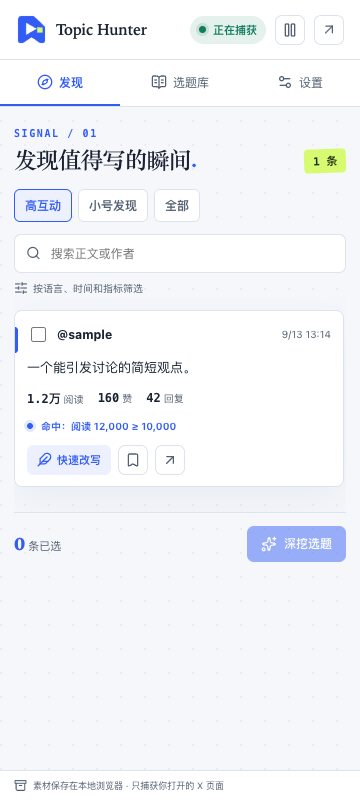
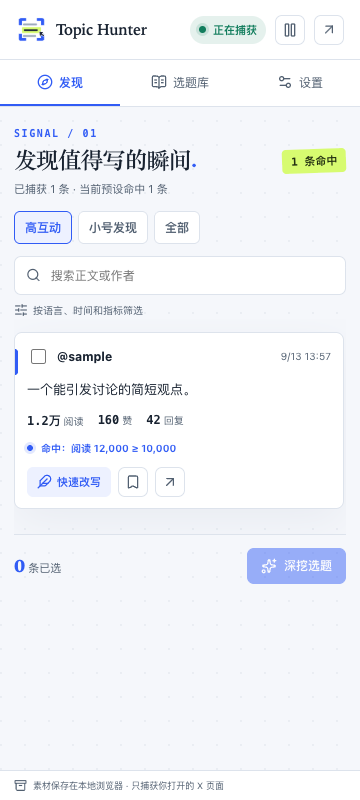
Fix X DOM fallback capture and discovery visibility

diff --git a/tests/e2e/extension.spec.ts b/tests/e2e/extension.spec.ts
@@ -33,6 +33,7 @@ test('built extension supports local quick draft and topic paths at 360px', asyn
       await chrome.runtime.sendMessage({ type: 'importBackup', data: { posts: [item], observations: [{ id: 'obs-1', postId: item.id, observedAt: item.lastSeenAt, source: 'graphql', metrics: item.latestMetrics }], quickDrafts: [], topicCards: [] } });
     }, post);
     await expect(page.getByText('一个能引发讨论的简短观点。')).toBeVisible();
+    expect(await page.evaluate(() => document.documentElement.scrollWidth <= window.innerWidth)).toBe(true);
     await page.screenshot({ path: 'output/playwright/sidepanel-discover.png', fullPage: true });
     await page.getByRole('button', { name: '快速改写' }).click();
     await expect(page.getByText('让好素材，变成你的表达.')).toBeVisible();
@@ -64,7 +65,7 @@ test('built extension supports local quick draft and topic paths at 360px', asyn
     const xPage = await context.newPage();
     let graphqlRequests = 0;
     let graphqlText = '页面响应中的完整帖子';
-    await xPage.route('https://x.com/test', route => route.fulfill({ contentType: 'text/html', body: '<html><body><article data-testid="tweet"><a href="/sample/status/323456789012345678"><time datetime="2026-09-13T08:00:00Z">今天</time></a><div data-testid="tweetText">页面可见的帖子</div><div role="group"></div></article></body></html>' }));
+    await xPage.route('https://x.com/test', route => route.fulfill({ contentType: 'text/html; charset=utf-8', body: `<html><body><article data-testid="tweet"><a href="/sample/status/323456789012345678"><time datetime="${new Date().toISOString()}">今天</time></a><div data-testid="tweetText">页面可见的帖子</div><div role="group"><button data-testid="reply" aria-label="42 Replies. Reply">42</button><button data-testid="retweet" aria-label="4 reposts. Repost">4</button><button data-testid="like" aria-label="160 Likes. Like">160</button><a href="/sample/status/323456789012345678/analytics" aria-label="12000 views. View post analytics">12K</a><button data-testid="bookmark" aria-label="Bookmark">2</button></div></article></body></html>` }));
     await xPage.route('https://x.com/i/api/graphql/**', route => {
       graphqlRequests += 1;
       return route.fulfill({ contentType: 'application/json', body: JSON.stringify({ data: { tweet: {
@@ -76,6 +77,15 @@ test('built extension supports local quick draft and topic paths at 360px', asyn
     });
     await xPage.goto('https://x.com/test');
     await expect(xPage.locator('[data-topic-hunter-badge]')).toBeVisible();
+    await expect.poll(async () => {
+      const snapshot = await workspace.evaluate(async () => chrome.runtime.sendMessage({ type: 'snapshot' }));
+      return snapshot.data.posts.find((item: { id: string }) => item.id === '323456789012345678');
+    }).toMatchObject({
+      isComplete: true,
+      latestMetricSource: 'dom',
+      latestMetrics: { views: 12000, likes: 160, replies: 42, reposts: 4, bookmarks: 2, followers: null },
+    });
+    await expect(workspace.getByRole('region', { name: '素材列表' }).getByText('页面可见的帖子')).toBeVisible();
     await xPage.evaluate(() => fetch('/i/api/graphql/abc/TweetDetail').then(response => response.json()));
     await expect(workspace.getByRole('region', { name: '素材列表' }).getByText('页面响应中的完整帖子')).toBeVisible();
     expect(graphqlRequests).toBe(1);
@@ -114,6 +124,18 @@ test('built extension supports local quick draft and topic paths at 360px', asyn
     expect(afterSecondTab.data.observations.filter((item: { postId: string }) => item.postId === '323456789012345678').length).toBeGreaterThanOrEqual(2);
     expect(secondTabRequests).toBe(1);
 
+    const truncatedTab = await context.newPage();
+    await truncatedTab.route('https://x.com/test', route => route.fulfill({
+      contentType: 'text/html; charset=utf-8',
+      body: `<html><body><article data-testid="tweet"><a href="/sample/status/423456789012345678"><time datetime="${new Date().toISOString()}">今天</time></a><div data-testid="tweetText">可见但截断的长帖开头</div><button>Show more</button><div role="group"><button data-testid="like" aria-label="160 Likes. Like">160</button><a href="/sample/status/423456789012345678/analytics" aria-label="12000 views. View post analytics">12K</a></div></article></body></html>`,
+    }));
+    await truncatedTab.goto('https://x.com/test');
+    await expect.poll(async () => {
+      const snapshot = await workspace.evaluate(async () => chrome.runtime.sendMessage({ type: 'snapshot' }));
+      return snapshot.data.posts.find((item: { id: string }) => item.id === '423456789012345678');
+    }).toMatchObject({ isComplete: false, latestMetrics: { views: 12000, likes: 160, followers: null } });
+    await expect(workspace.getByRole('region', { name: '素材列表' }).getByText('可见但截断的长帖开头')).toHaveCount(0);
+
     await workspace.evaluate(async () => {
       const timestamp = new Date().toISOString();
       const posts = Array.from({ length: 1_000 }, (_, index) => {
@@ -127,7 +149,8 @@ test('built extension supports local quick draft and topic paths at 360px', asyn
       });
       await chrome.runtime.sendMessage({ type: 'importBackup', data: { posts, observations: [], quickDrafts: [], topicCards: [] } });
     });
-    await expect(workspace.getByText('1002 条')).toBeVisible();
+    await expect(workspace.getByText('1002 条命中', { exact: true })).toBeVisible();
+    await expect(workspace.getByText('已捕获 1003 条 · 当前预设命中 1002 条', { exact: true })).toBeVisible();
     expect(await workspace.locator('article').count()).toBeLessThan(30);
   } finally {
     await context.close();

diff --git a/src/ui/Discover.tsx b/src/ui/Discover.tsx
@@ -96,8 +96,9 @@ export function Discover({ snapshot, compact, selected, onSelected, onQuick, onD
     <section className={styles.discoverList} aria-label="素材列表">
       <div className={styles.sectionLead}>
         <div><span className={styles.eyebrow}>SIGNAL / 01</span><h2>发现值得写的瞬间<span className={styles.titlePoint}>.</span></h2></div>
-        <span className={styles.countPill}>{filtered.length} 条</span>
+        <span className={styles.countPill}>{filtered.length} 条命中</span>
       </div>
+      <p className={styles.captureSummary}>已捕获 {snapshot.posts.length} 条 · 当前预设命中 {filtered.length} 条</p>
       <fieldset className={styles.filterBar}><legend className={styles.srOnly}>筛选预设</legend>
         <button type="button" className={preset === 'high-interaction' ? styles.filterActive : styles.filterButton} onClick={() => changeFilter(() => setPreset('high-interaction'))}>高互动</button>
         <button type="button" className={preset === 'small-account' ? styles.filterActive : styles.filterButton} onClick={() => changeFilter(() => setPreset('small-account'))}>小号发现</button>
@@ -115,7 +116,8 @@ export function Discover({ snapshot, compact, selected, onSelected, onQuick, onD
         {filtered.length === 0 ? <div className={styles.emptyState}>
           <div className={styles.emptySymbol}>✳</div>
           <h3>{snapshot.posts.length === 0 ? '还没有捕获素材' : '当前筛选没有命中'}</h3>
-          <p>{snapshot.posts.length === 0 ? '打开 X 浏览首页、搜索、列表、主页或帖子详情。插件只观察已加载的内容。' : '试试“全部”或调整设置中的阈值。'}</p>
+          <p>{snapshot.posts.length === 0 ? '打开或刷新 X 页面后浏览首页、搜索、列表、主页或帖子详情。插件只观察已加载的内容。' : `已捕获 ${snapshot.posts.length} 条；当前预设没有命中。可查看全部，或调整设置中的阈值。`}</p>
+          {snapshot.posts.length > 0 && <button type="button" className={styles.outlineButton} onClick={() => changeFilter(() => setPreset('all'))}>查看全部 {snapshot.posts.length} 条素材</button>}
         </div> : <div className={styles.virtualCanvas} style={{ height: virtualizer.getTotalSize() }}>
           {virtualizer.getVirtualItems().map(row => {
             const post = filtered[row.index];

diff --git a/entrypoints/x.content.ts b/entrypoints/x.content.ts
@@ -25,6 +25,17 @@ function statusId(article: Element): string | null {
 function domFallback(article: Element, id: string): CapturedPost | null {
   const text = article.querySelector('[data-testid="tweetText"]')?.textContent?.trim();
   if (!text) return null;
+  const visibleCount = (selector: string): number | null => {
+    const element = article.querySelector(selector);
+    const label = element?.getAttribute('aria-label')?.match(/^\s*(\d[\d,]*)(?=\s|$)/)?.[1];
+    const raw = label ?? element?.textContent?.trim();
+    if (!raw || !/^\d[\d,]*$/.test(raw)) return null;
+    const value = Number(raw.replaceAll(',', ''));
+    return Number.isSafeInteger(value) ? value : null;
+  };
+  const truncated = [...article.querySelectorAll('button,[role="button"],a')].some(element =>
+    /^(show more|显示更多|展开)$/i.test(element.textContent?.trim() ?? ''),
+  ) || /(?:…|\.\.\.)$/.test(text);
   const link = article.querySelector<HTMLAnchorElement>(`a[href*="/status/${id}"]`);
   const segment = link?.getAttribute('href')?.split('/')[1] ?? null;
   const handle = segment === 'i' ? null : segment;
@@ -32,8 +43,15 @@ function domFallback(article: Element, id: string): CapturedPost | null {
   return {
     id, url: `https://x.com/${handle ?? 'i/web'}/status/${id}`, text,
     authorId: null, authorHandle: handle, publishedAt: time,
-    isComplete: false, quotedPostId: null, language: null,
-    metrics: { ...EMPTY_METRICS }, source: 'dom',
+    isComplete: !truncated, quotedPostId: null, language: null,
+    metrics: {
+      ...EMPTY_METRICS,
+      views: visibleCount('a[href*="/analytics"]'),
+      likes: visibleCount('[data-testid="like"],[data-testid="unlike"]'),
+      replies: visibleCount('[data-testid="reply"]'),
+      reposts: visibleCount('[data-testid="retweet"]'),
+      bookmarks: visibleCount('[data-testid="bookmark"],[data-testid="removeBookmark"]'),
+    }, source: 'dom',
   };
 }
 

diff --git a/src/ui/ui.module.css b/src/ui/ui.module.css
@@ -79,6 +79,7 @@
 .sectionLead h2, .editorIntro h2 { margin: 5px 0 0; font: 700 clamp(22px, 2.15vw, 30px)/1.17 "Iowan Old Style", "Songti SC", serif; letter-spacing: -.04em; }
 .titlePoint { color: var(--accent); }
 .countPill { flex: none; padding: 4px 9px; background: var(--signal); color: #233011; border-radius: 4px; font: 700 11px ui-monospace, monospace; transform: rotate(-2deg); }
+.captureSummary { margin: -8px 0 14px; color: var(--text-muted); font-size: 11px; }
 .filterBar { display: flex; flex-wrap: wrap; gap: 6px; margin: 0 0 12px; padding: 0; border: 0; }
 .srOnly { position: absolute; width: 1px; height: 1px; padding: 0; margin: -1px; overflow: hidden; clip: rect(0, 0, 0, 0); white-space: nowrap; border: 0; }
 .filterButton, .filterActive { border: 1px solid var(--border); border-radius: 6px; padding: 7px 10px; background: var(--surface-panel); color: var(--text-muted); font-size: 12px; font-weight: 600; }

diff --git a/doc/log/2026-09-13.md b/doc/log/2026-09-13.md
@@ -1,5 +1,13 @@
 # 2026-09-13 执行日志
 
+## M1-05：真实 X 页面发现页零命中修复
+
+- 用户在已安装插件的 X 首页反馈“发现”页无内容。只读检查当前页面：6 个帖子卡片均有 Topic Hunter 的“素材”标记，说明内容脚本已注入；真实 DOM 的阅读、点赞、回复等数据分别位于分析链接与操作按钮的 `aria-label`。可见普通帖的指标也可能低于默认高互动阈值。
+- 定位：响应观察未覆盖的帖子由 DOM 兜底保存，但原实现强制 `isComplete=false` 且所有指标为 `null`，所以高互动预设无法命中。修复为读取可见整数指标，遇到“Show more”等截断提示仍保持不完整；未知值保持 `null`。发现页同时显示总捕获数、当前命中数，并在零命中时提供“查看全部”。
+- `pnpm test:e2e` → Chromium 扩展模拟流程 1 项通过：复刻真实 X DOM 形态验证 12,000 阅读、160 赞、42 回复、4 转发、2 收藏入库并出现在发现页；截断帖不误判短内容；原有 GraphQL、暂停恢复、跨标签去重与虚拟列表仍通过。测试样本是脱敏构造页面，不能替代真实 X 五类页面验收。测试夹具初次因未来时间、未声明 UTF-8 与文字选择器歧义分别失败，修正夹具后重跑通过，未发现对应产品故障。最终复测在沙箱内启动 Chromium 报 `browserType.launchPersistentContext: Target page, context or browser has been closed`，子进程 `SIGABRT`；推断为沙箱启动限制。在本机进程权限下重跑同一命令 → 1 项通过。
+- `pnpm typecheck`、`pnpm lint`、`python3 scripts/check_docs.py` → 通过。360px 实际扩展截图 `output/playwright/sidepanel-discover.png` 人工查看无截断或横向溢出。用户须刷新 Chrome 插件和 X 页面后核对真实侧栏；浏览器 UI 策略禁止自动打开当前用户已安装插件的扩展页，本轮未读其真实侧栏数据。
+
+
 ## 公开源码仓库与品牌更换
 
 - 用户确认“选中短句”Logo 方向：四角捕获框、三行信息流、青柠高亮和指针。原始概念图由内置 imagegen 生成并保存在 [brand/logo-generated.png](../../brand/logo-generated.png)；生产 SVG 与 16/32/48/128px PNG 按生成稿描摹和渲染，横向字标与 GitHub 社交预览同源。此前“折角书签”和“引号望远镜”方案被用户否决，未进入发布资产。

diff --git a/specs/2026-09-13-topic-hunter-v1.md b/specs/2026-09-13-topic-hunter-v1.md
@@ -27,6 +27,7 @@
 | CAP-02 | 每帖一个 `Post`，跨标签重复遇到时更新当前指标并保留观测历史；引用帖的文本与原帖正文分开。用脱敏样本覆盖普通、引用、截断、缺失与回落。 |
 | CAP-03 | 每个指标可显示观测时间和数据来源；缺失显示“未知”。首次观测只能显示平均热度，两次有效观测才能显示带区间的新增阅读／小时。 |
 | CAP-04 | 暂停后不再新增自动采集；恢复、切页、刷新和 Worker 重启后配置与已保存内容仍在。采集异常有可见提示与恢复动作。 |
+| CAP-05 | 已打开的 X 页面若帖子响应未被观察到，仍从原帖可见 DOM 保存正文、原帖链接、发布时间与可读到的互动原始整数；仅在没有“显示更多”等截断提示时将正文视为完整。未知指标保持 `null`，不能伪造粉丝数。发现页同时显示已捕获总数与当前预设命中数，零命中时可一键查看全部。用真实 X DOM 结构的脱敏样本及浏览器扩展流程验证。 |
 | FIL-01 | “短内容高互动”初值：完整正文 ≤280 可见字符、近 7 天，且阅读 ≥10,000／点赞 ≥100／回复 ≥20 任一满足；“小号发现”初值：同长度/时间，已知粉丝数 ≤10,000，且点赞 ≥30 或回复 ≥10。未知粉丝数不能命中小号预设。 |
 | FIL-02 | 阈值可调整和恢复默认；“全部素材”不限热度。未命中的帖子也可手动保存；候选理由列出触发的具体字段和数值，不给不透明爆款分。 |
 | FIL-03 | 未收藏、无选题或快速稿引用的自动候选在最后一次命中 30 天后可清理；收藏与被创作产物引用的素材保留。清理与删除在 UI 中可区分。 |

diff --git a/doc/plan/2026-09-13-m0-m4-roadmap.md b/doc/plan/2026-09-13-m0-m4-roadmap.md
@@ -27,6 +27,7 @@
 | M1-02 | CAP-01、CAP-02 | M1-01 | 模拟验证完成，真实数据待验 | 响应观察、隔离校验、普通/引用/截断/缺失结构测试；真实 X 响应待测 |
 | M1-03 | CAP-02、CAP-03、CAP-04 | M1-02 | 模拟验证完成，Worker 重启待验 | IndexedDB 去重与观测测试，浏览器暂停/恢复与页面刷新通过 |
 | M1-04 | CAP-01、CAP-04 | M1-03 | 待实测 | 首页、搜索、列表、主页、详情实测；与 x-viral-monitor 同启及连续浏览 30 分钟记录 |
+| M1-05 | CAP-05 | M1-02、M2-02 | 本地修复与模拟验证完成，用户刷新后待核对 | 真实首页 DOM 形态检查；DOM 整数指标、截断、发现页计数的 Chromium 扩展测试通过；用户本地重新加载后核对。M1-04 的五类页面完整验收仍待做 |
 | M2-01 | FIL-01、FIL-02、FIL-03 | M1-02 | 代码完成，清理实测待验 | 预设、可调规则、30 天本地清理、人工收藏已有实现和规则测试 |
 | M2-02 | UX-01、LIB-01、QCK-01 | M2-01 | 模拟验证完成，人工 UI 待验 | 原帖入口、侧栏、全页库完成；360px 无溢出，暗色/高缩放/键盘待人工回归 |
 | M2-03 | DAT-01 | M2-02 | 代码完成，浏览器导入异常回归待验 | JSON 版本与字段校验、导入去重、无密钥；受控本机 `TOPIC_HUNTER_PERF_ASSERT=1 pnpm test` 检查 10,000 条纯规则筛选 p95 ≤500ms（最近 90.8ms，Node 23.2.0）；共享 CI 记录时长与结果正确性 |
